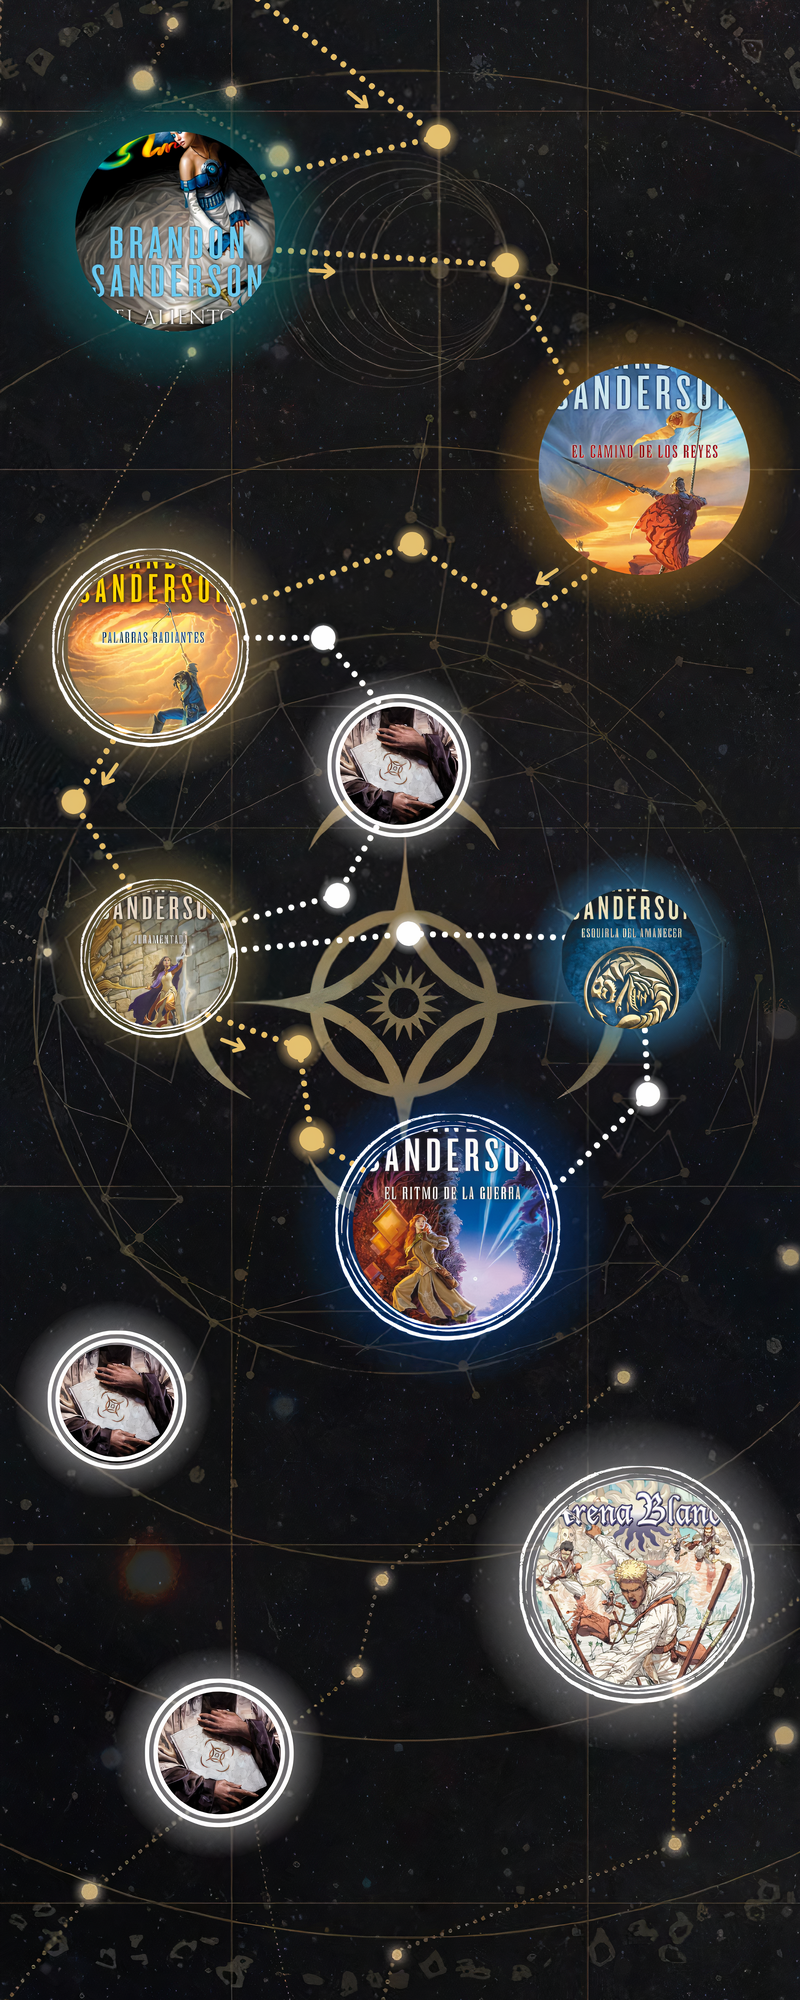
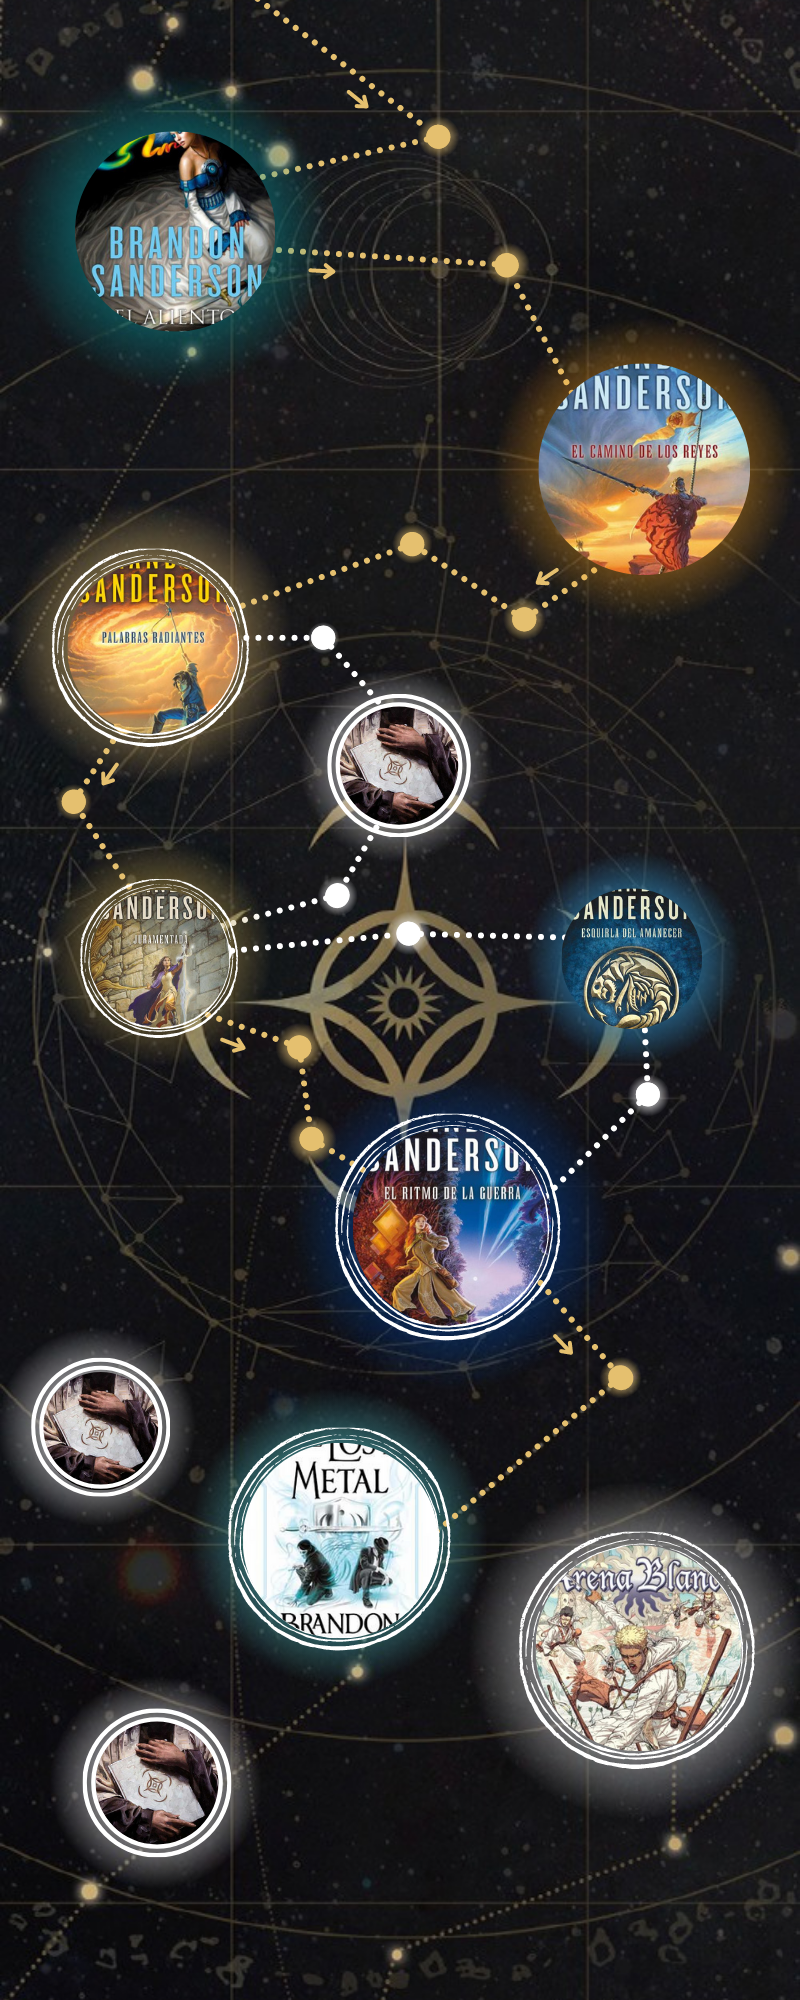
Libro agregado

diff --git a/lib/Screen/home.dart b/lib/Screen/home.dart
@@ -50,7 +50,8 @@ class _HomeState extends State<Home> {
       ritmoGuerra = false,
       ocaso = false,
       silencio = false,
-      arena = false;
+      arena = false,
+      metalPerdido = false;
 
   String elantrisNota = "0",
       almaEmperadorNota = "0",
@@ -73,7 +74,8 @@ class _HomeState extends State<Home> {
       ritmoGuerraNota = "0",
       ocasoNota = "0",
       silencioNota = "0",
-      arenaNota = "0";
+      arenaNota = "0",
+      metalPerdidoNota = "0";
 
   late TutorialCoachMark tutorialCoachMark;
   List<TargetFocus> targets = [];
@@ -239,6 +241,13 @@ class _HomeState extends State<Home> {
         arenaNota = prefs.getString('arenaNota')!;
       });
     }
+    if (prefs.getString('metalPerdidoNota') == null) {
+      metalPerdidoNota = "0";
+    } else {
+      setState(() {
+        metalPerdidoNota = prefs.getString('metalPerdidoNota')!;
+      });
+    }
   }
 
   void obtenerLibros() async {
@@ -395,6 +404,13 @@ class _HomeState extends State<Home> {
     } else {
       setState(() {
         arena = prefs.getBool('arena')!;
+      });
+    }
+    if (prefs.getBool('metalPerdido') == null) {
+      metalPerdido = false;
+    } else {
+      setState(() {
+        metalPerdido = prefs.getBool('metalPerdido')!;
       });
     }
   }
@@ -1592,8 +1608,8 @@ class _HomeState extends State<Home> {
                 ),
               ),
               Positioned(
-                bottom: 300,
-                left: 10,
+                bottom: 285,
+                left: 1,
                 child: AvatarGlow(
                   endRadius: 60.0,
                   child: Material(
@@ -1636,7 +1652,7 @@ class _HomeState extends State<Home> {
                 ),
               ),
               Positioned(
-                bottom: 190,
+                bottom: 150,
                 right: 37,
                 child: AvatarGlow(
                   endRadius: 60.0,
@@ -1680,8 +1696,8 @@ class _HomeState extends State<Home> {
                 ),
               ),
               Positioned(
-                bottom: 90,
-                left: 71,
+                bottom: 70,
+                left: 35,
                 child: AvatarGlow(
                   endRadius: 60.0,
                   child: Material(
@@ -1718,6 +1734,48 @@ class _HomeState extends State<Home> {
                         backgroundColor:
                             silencio ? Colors.green[300] : Colors.grey[100],
                         radius: 15.0,
+                      ),
+                    ),
+                  ),
+                ),
+              ),
+              Positioned(
+                bottom: 215,
+                left: 145,
+                child: AvatarGlow(
+                  endRadius: 60.0,
+                  child: Material(
+                    // Replace this child with your own
+                    elevation: 8.0,
+                    shape: const CircleBorder(),
+                    child: GestureDetector(
+                      onTap: () {
+                        showDialog(
+                            barrierDismissible: false,
+                            context: context,
+                            builder: (BuildContext context) {
+                              if (idioma) {
+                                return libroPorSalir(
+                                    "The lost metal",
+                                    "The Lost Metal is the final installment of the Wax and Wayne saga, marking the end of Era 2 and welcoming the Era 3 trilogy. It will be released on November 15, 2022.",
+                                    "theLostMetal.png");
+                              } else {
+                                return libroPorSalir(
+                                    "El metal perdido",
+                                    "El metal perdido es la última entrega de la saga de Wax y Wayne, que marca el final de la Era 2 y da la bienvenida a la trilogía de la Era 3. Saldrá a la venta el 15 de noviembre de 2022.",
+                                    "theLostMetal.png");
+                              }
+                            });
+                      },
+                      child: CircleAvatar(
+                        child: metalPerdido
+                            ? const Icon(Icons.check, color: Colors.white)
+                            : const Icon(Icons.timelapse_sharp,
+                                color: Colors.white),
+                        backgroundColor: metalPerdido
+                            ? Colors.green[300]
+                            : Colors.orange[300],
+                        radius: 20.0,
                       ),
                     ),
                   ),
@@ -1865,6 +1923,92 @@ class _HomeState extends State<Home> {
             ),
           ],
         ),
+      ),
+    );
+  }
+
+  Widget libroPorSalir(String titulo, String des, String img) {
+    return Dialog(
+      shape: RoundedRectangleBorder(
+        borderRadius: BorderRadius.circular(20),
+      ),
+      elevation: 0,
+      backgroundColor: Colors.transparent,
+      child: Stack(
+        children: <Widget>[
+          Container(
+            padding: const EdgeInsets.only(
+                left: 20, top: 45 + 20, right: 20, bottom: 20),
+            margin: const EdgeInsets.only(top: 45),
+            decoration: BoxDecoration(
+                shape: BoxShape.rectangle,
+                color: Colors.black,
+                borderRadius: BorderRadius.circular(20),
+                // ignore: prefer_const_literals_to_create_immutables
+                boxShadow: [
+                  const BoxShadow(
+                      color: Color.fromARGB(255, 133, 125, 125),
+                      offset: Offset(0, 10),
+                      blurRadius: 10),
+                ]),
+            child: Column(
+              mainAxisSize: MainAxisSize.min,
+              children: <Widget>[
+                const SizedBox(height: 50),
+                FittedBox(
+                  fit: BoxFit.cover,
+                  child: Text(
+                    titulo.toString(),
+                    style: GoogleFonts.trispace(
+                      textStyle: const TextStyle(
+                          fontSize: 35, color: Colors.white, letterSpacing: .5),
+                    ),
+                  ),
+                ),
+                const SizedBox(
+                  height: 15,
+                ),
+                Padding(
+                  padding: const EdgeInsets.symmetric(horizontal: 10),
+                  child: Text(des.toString(),
+                      style: GoogleFonts.trispace(
+                        textStyle: const TextStyle(
+                            fontSize: 20,
+                            color: Colors.white,
+                            letterSpacing: .5),
+                      ),
+                      textAlign: TextAlign.justify),
+                ),
+                const SizedBox(
+                  height: 22,
+                ),
+                Align(
+                    alignment: Alignment.bottomRight,
+                    child: IconButton(
+                        color: Colors.white,
+                        onPressed: () {
+                          Navigator.pop(context);
+                        },
+                        icon: const Icon(Icons.arrow_forward_ios))),
+              ],
+            ),
+          ),
+          Positioned(
+            left: 70,
+            right: 70,
+            child: SizedBox(
+              width: 20,
+              height: 140,
+              child: ClipRRect(
+                borderRadius: const BorderRadius.all(Radius.circular(45)),
+                child: Image(
+                  image: AssetImage('assets/images/$img'),
+                  fit: BoxFit.cover,
+                ),
+              ),
+            ),
+          ),
+        ],
       ),
     );
   }
